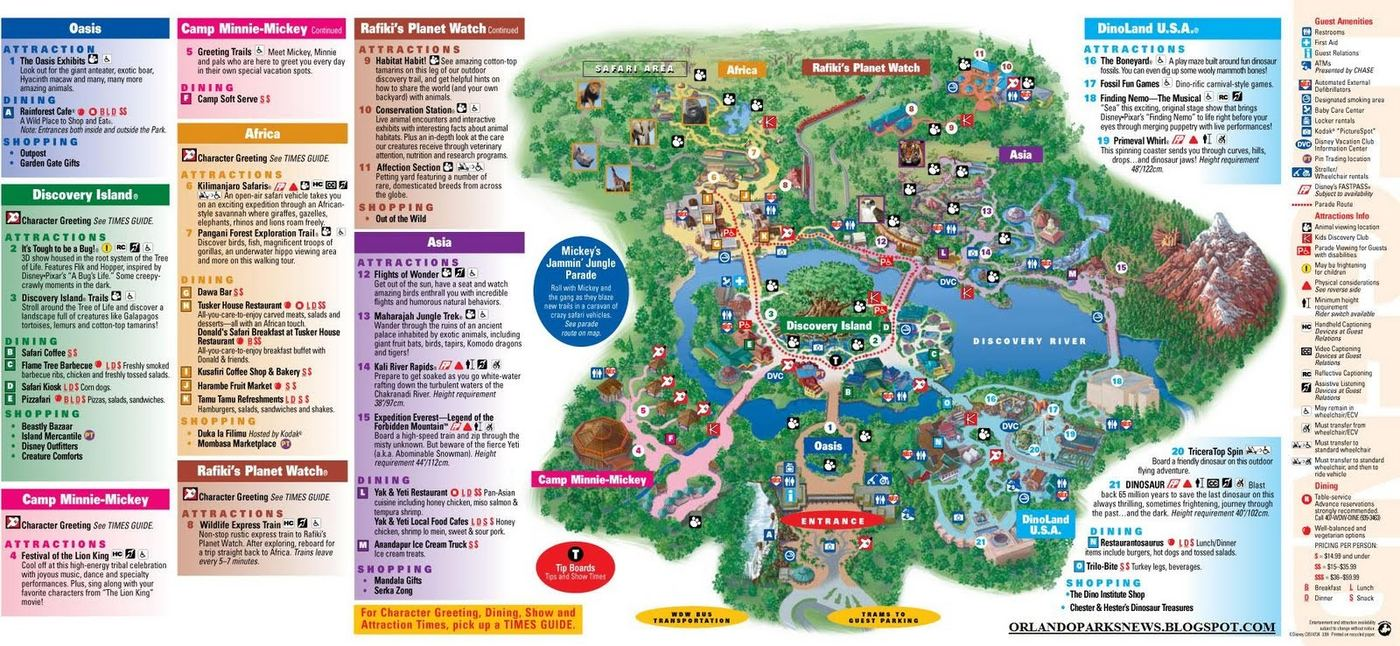
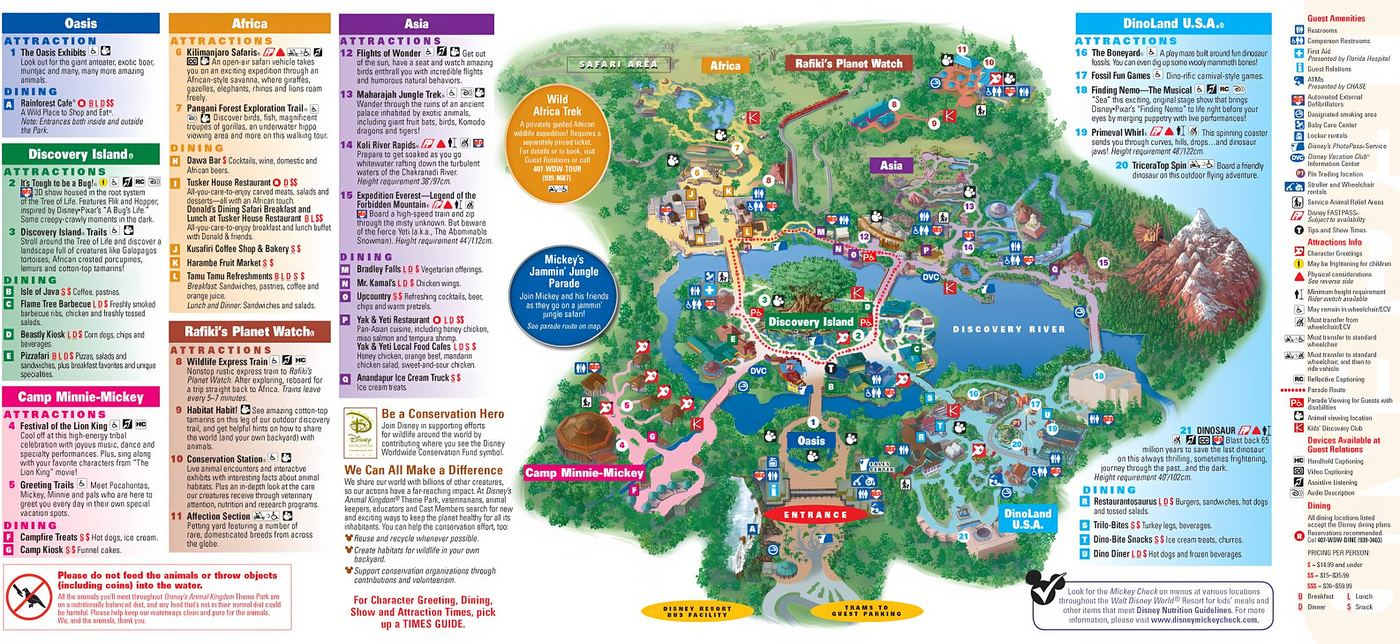
Animal Kingdom: mapa 2012 mejorado
Claude-Session: https://claude.ai/code/session_0197mgRJ3F2zdsUp3eosRKyF

diff --git a/2012md/5bda48yt/index.html b/2012md/5bda48yt/index.html
@@ -286,8 +286,8 @@ window.__noSwipe=function(){return multi||z()||!!window.__lbZoom;};})();
     "photos": [
       {
         "src": "ak-01.jpg",
-        "ratio": 0.4612,
-        "caption": "El mapa de Disney's Animal Kingdom tal como era en 2012. El parque estaba dividido en siete zonas alrededor del Árbol de la Vida: Oasis (la entrada), Discovery Island, Camp Minnie-Mickey, Africa, Rafiki's Planet Watch, Asia y DinoLand U.S.A. Camp Minnie-Mickey, donde se presentaba el show Festival of the Lion King, cerró en 2014, y en su lugar se construyó Pandora – The World of Avatar, que abrió en 2017. En 2012 el parque cerraba al atardecer: recién desde 2016 abre de noche."
+        "ratio": 0.4596,
+        "caption": "Mapa oficial de Disney's Animal Kingdom de 2012, el año de nuestra visita. El parque estaba dividido en siete zonas alrededor del Árbol de la Vida: Oasis (la entrada), Discovery Island, Camp Minnie-Mickey, Africa, Rafiki's Planet Watch, Asia y DinoLand U.S.A. Camp Minnie-Mickey, donde se presentaba el show Festival of the Lion King, cerró en 2014, y en su lugar se construyó Pandora – The World of Avatar, que abrió en 2017. En 2012 el parque cerraba al atardecer: recién desde 2016 abre de noche."
       },
       {
         "src": "ak-02.jpg",
